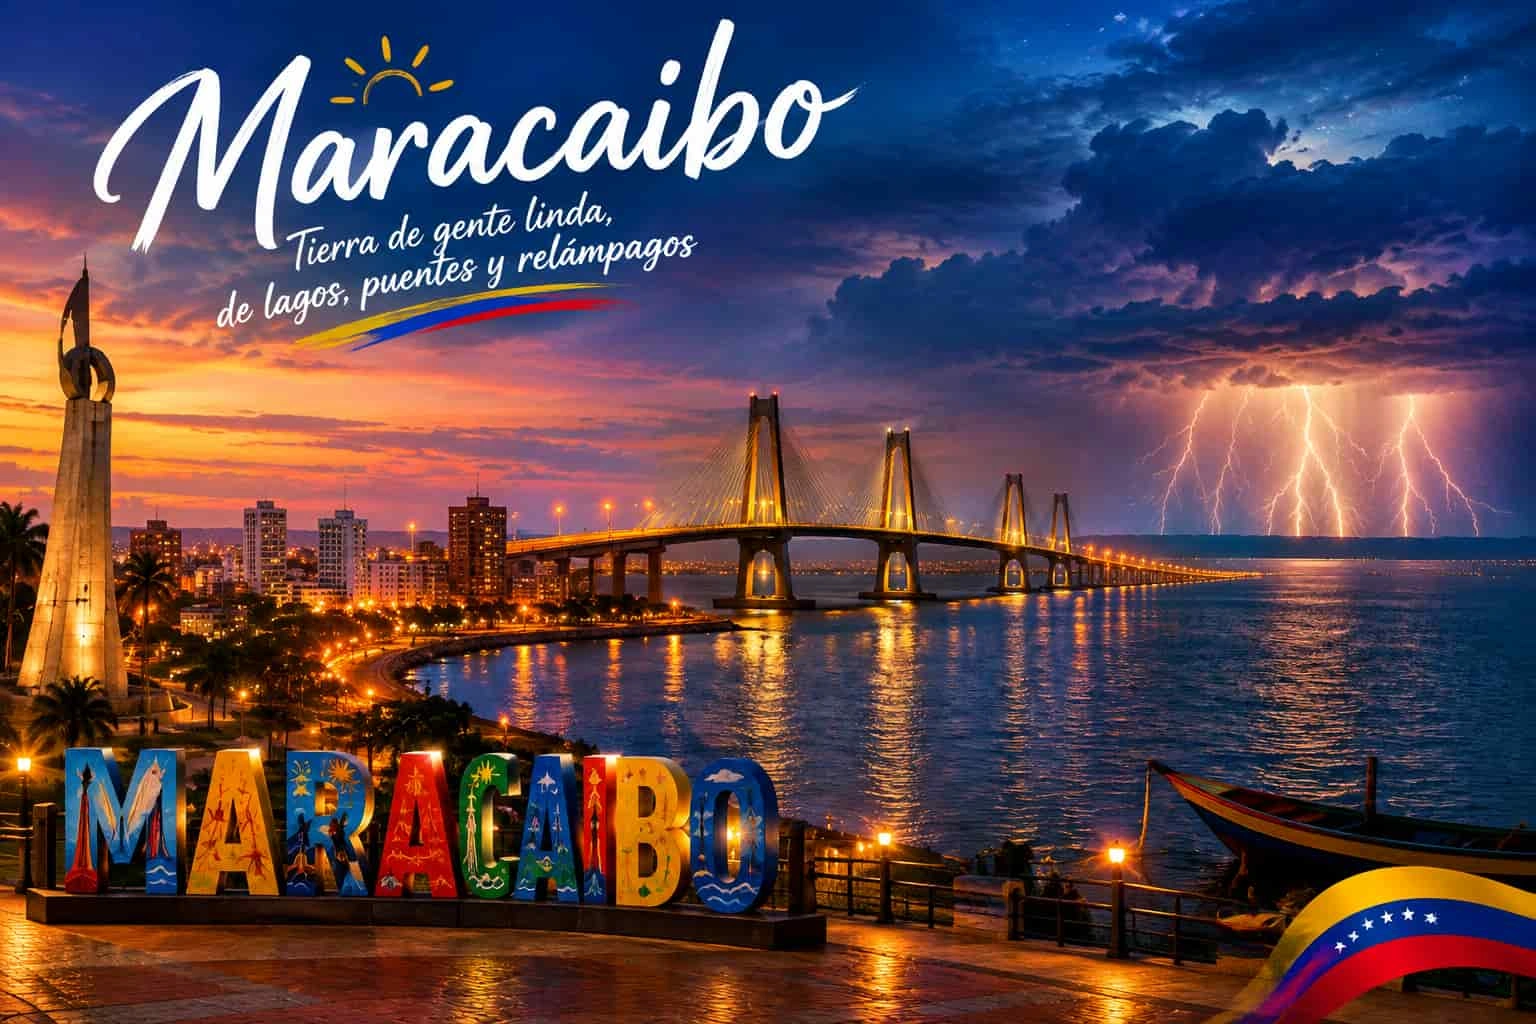
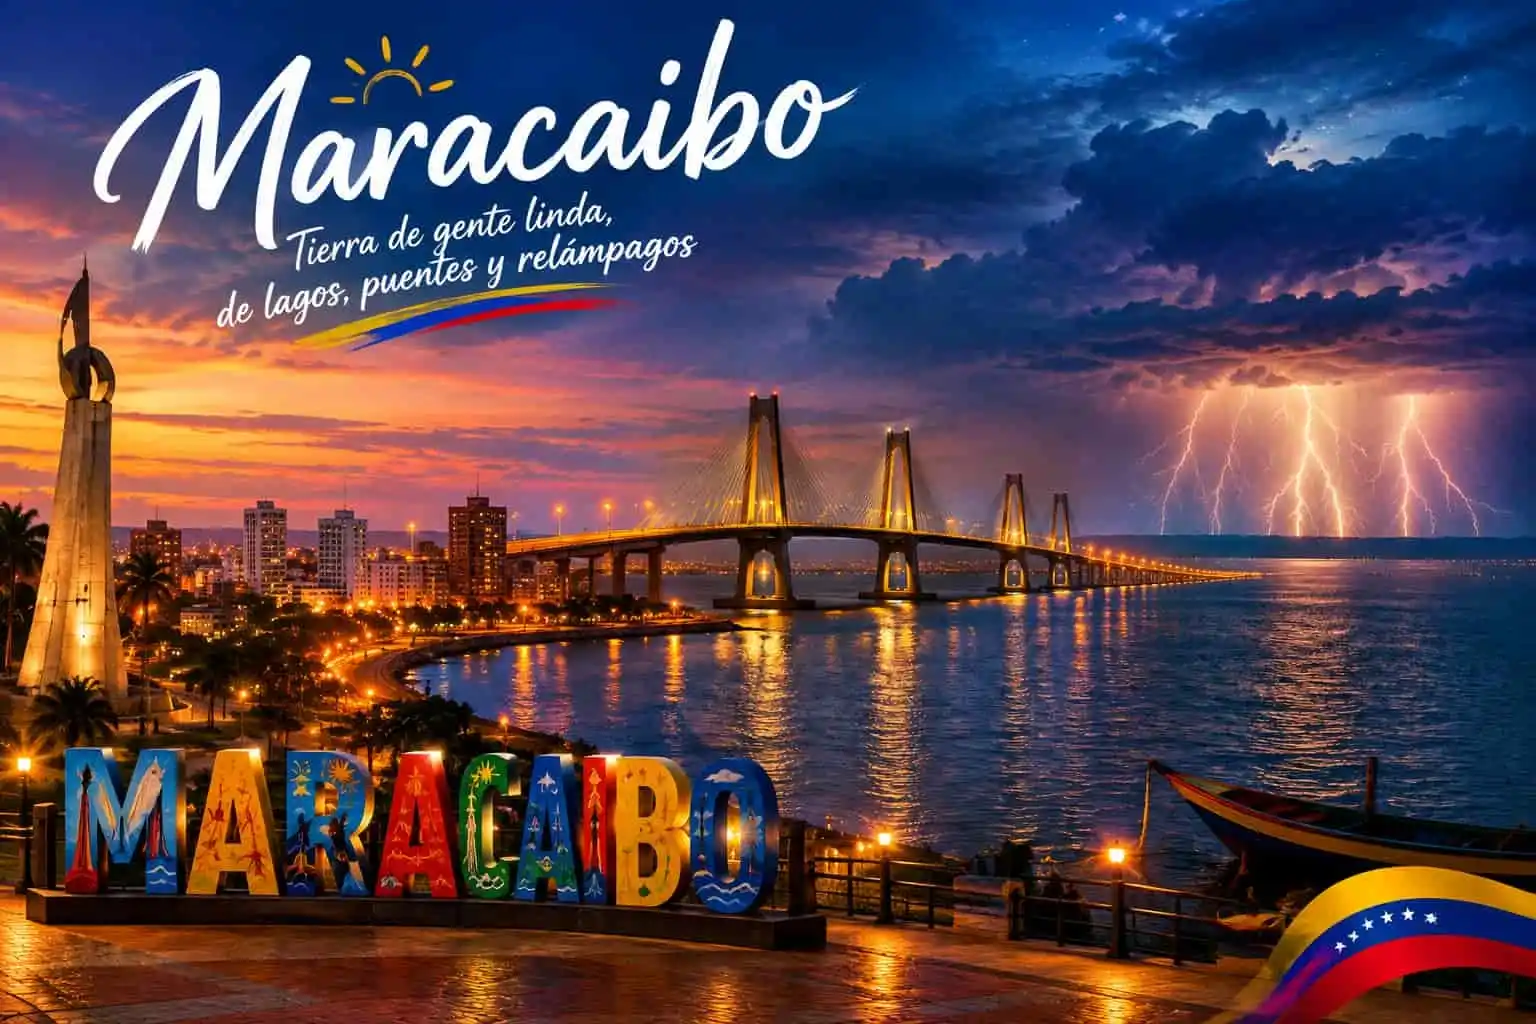
Add files via upload

diff --git a/local.html b/local.html
@@ -15,6 +15,7 @@
     
     <script src="scripts/local.js" defer></script>
 </head>
+
 <body>
 
     <header>
@@ -46,6 +47,7 @@
                     <circle cx="12" cy="12" r="5" fill="#f97316"/>
                     <path d="M12 1v2M12 21v2M4.22 4.22l1.42 1.42M18.36 18.36l1.42 1.42M1 12h2M21 12h2M4.22 19.78l1.42-1.42M18.36 5.64l1.42-1.42" stroke="#f97316" stroke-width="2" stroke-linecap="round"/>
                 </svg>
+
                 <span class="clima-info">Ensolarado (Média de 34°C)</span>
             </div>
 

diff --git a/estilos/local.css b/estilos/local.css
@@ -94,6 +94,16 @@ nav a:hover {
     color: #1a1a1a;
 }
 
+.main-title::after {
+    content: '';
+    display: block;
+    width: 80px;                  
+    height: 4px;                 
+    background-color: var(--primary-color); 
+    margin: 0.6rem auto 0 auto;  
+    border-radius: 2px;
+}              
+
 main {
     max-width: 1050px;
     margin: 0 auto 4rem auto;
